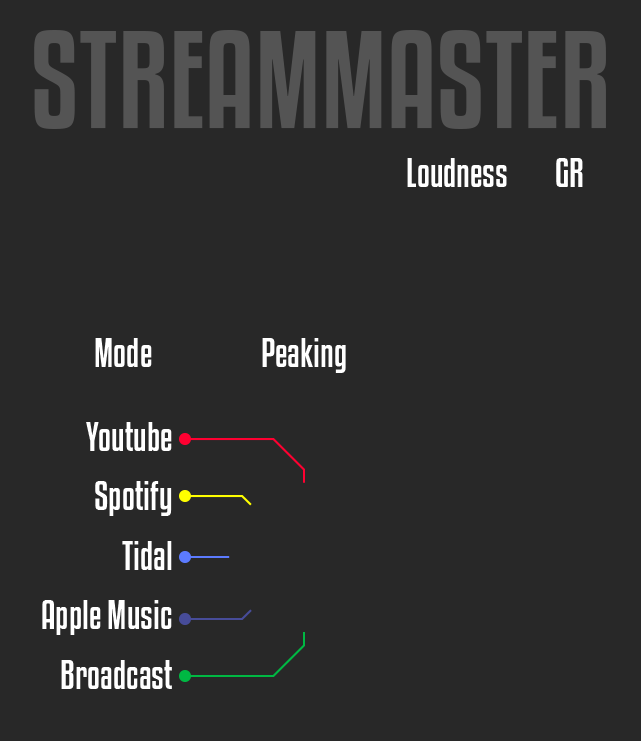
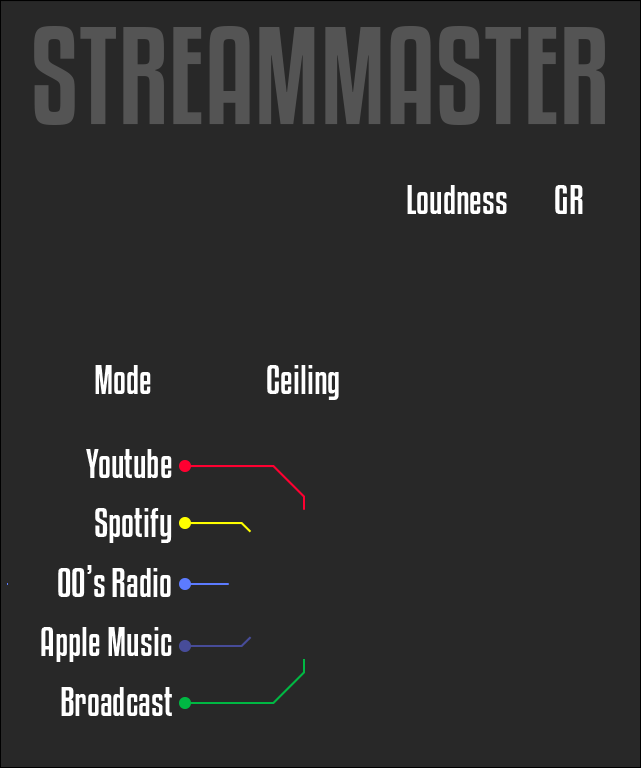
Added bigger background

diff --git a/StreamMaster.h b/StreamMaster.h
@@ -31,6 +31,9 @@
 
 #define PLUG_MODE_TEXT_LABEL_STRING_SIZE 256
 
+// Aftermath of tweaking UI size
+#define PLUG_Y_OFFSET (27)
+
 class StreamMaster : public IPlug
 {
 public:
@@ -71,50 +74,50 @@ enum ELayout
 
   // LUFS meter
   kLufsMeter_X = 420,
-  kLufsMeter_Y = 197,
+  kLufsMeter_Y = 197+PLUG_Y_OFFSET,
 
   // GR meter
   kGrMeter_X = 532,
-  kGrMeter_Y = 197,
+  kGrMeter_Y = 197+PLUG_Y_OFFSET,
   
   // Peaking knob
   kGainX = 226,
-  kGainY = 185,
+  kGainY = 185+PLUG_Y_OFFSET,
   kKnobFrames = 11,
 
   // LUFS Text reading
   kILoudnessTextControl_X = 414,
-  kILoudnessTextControl_Y = 695,
+  kILoudnessTextControl_Y = 695+PLUG_Y_OFFSET,
   kILoudnessTextControl_W = 80,
   kILoudnessTextControl_H = 40,
 
   // Gain reduction Text reading
   kIGrTextControl_X = 526,
-  kIGrTextControl_Y = 695,
+  kIGrTextControl_Y = 695+PLUG_Y_OFFSET,
   kIGrTextControl_W = 80,
   kIGrTextControl_H = 40,
 
   // Peaking knob Text reading
   kIPeakingTextControl_X = 260,
-  kIPeakingTextControl_Y = 170,
+  kIPeakingTextControl_Y = 170+PLUG_Y_OFFSET,
   kIPeakingTextControl_W = 80,
   kIPeakingTextControl_H = 20,
   
   // Mode text guide
   kIModeTextControl_X = 0,
-  kIModeTextControl_Y = 130,
+  kIModeTextControl_Y = 105+PLUG_Y_OFFSET,
   kIModeTextControl_W = GUI_WIDTH,
   kIModeTextControl_H = 20,
 
   // Learn-master-off
   kModeSwitch_N = 3,
   kModeSwitch_X = 45,
-  kModeSwitch_Y = 180,
+  kModeSwitch_Y = 180+PLUG_Y_OFFSET,
   
   // Youtube-Spotify-etc.
   kPlatformSwitch_N = 5,
   kPlatformSwitch_X = 226,
-  kPlatformSwitch_Y = 480,
+  kPlatformSwitch_Y = 480+PLUG_Y_OFFSET,
 };
 
 // Loudness stuff
@@ -122,8 +125,8 @@ enum ELayout
 double afTargetLufs[PLUG_PLATFORM_OPTIONS] = {
   -23., /* #0 Broadcast - EBU R128 guideline */
   -16., /* #1 Apple Music, SoundCheck, AES */
-  -14., /* #2 Tidal */
-  -14., /* #3 Spotify */
+  -6.,  /* #2 Mp3, Soundcloud, radio etc. But not really.  */
+  -14., /* #3 Spotify & Tidal */
   -13.  /* #4 Youtube */
 };
 #define PLUG_DEFAULT_TARGET_PLATFORM 4

diff --git a/resource.h b/resource.h
@@ -67,7 +67,7 @@ instrument determined by PLUG _IS _INST
 
 // GUI default dimensions
 #define GUI_WIDTH 641
-#define GUI_HEIGHT 741
+#define GUI_HEIGHT 768
 
 // on MSVC, you must define SA_API in the resource editor preprocessor macros as well as the c++ ones
 #if defined(SA_API)
